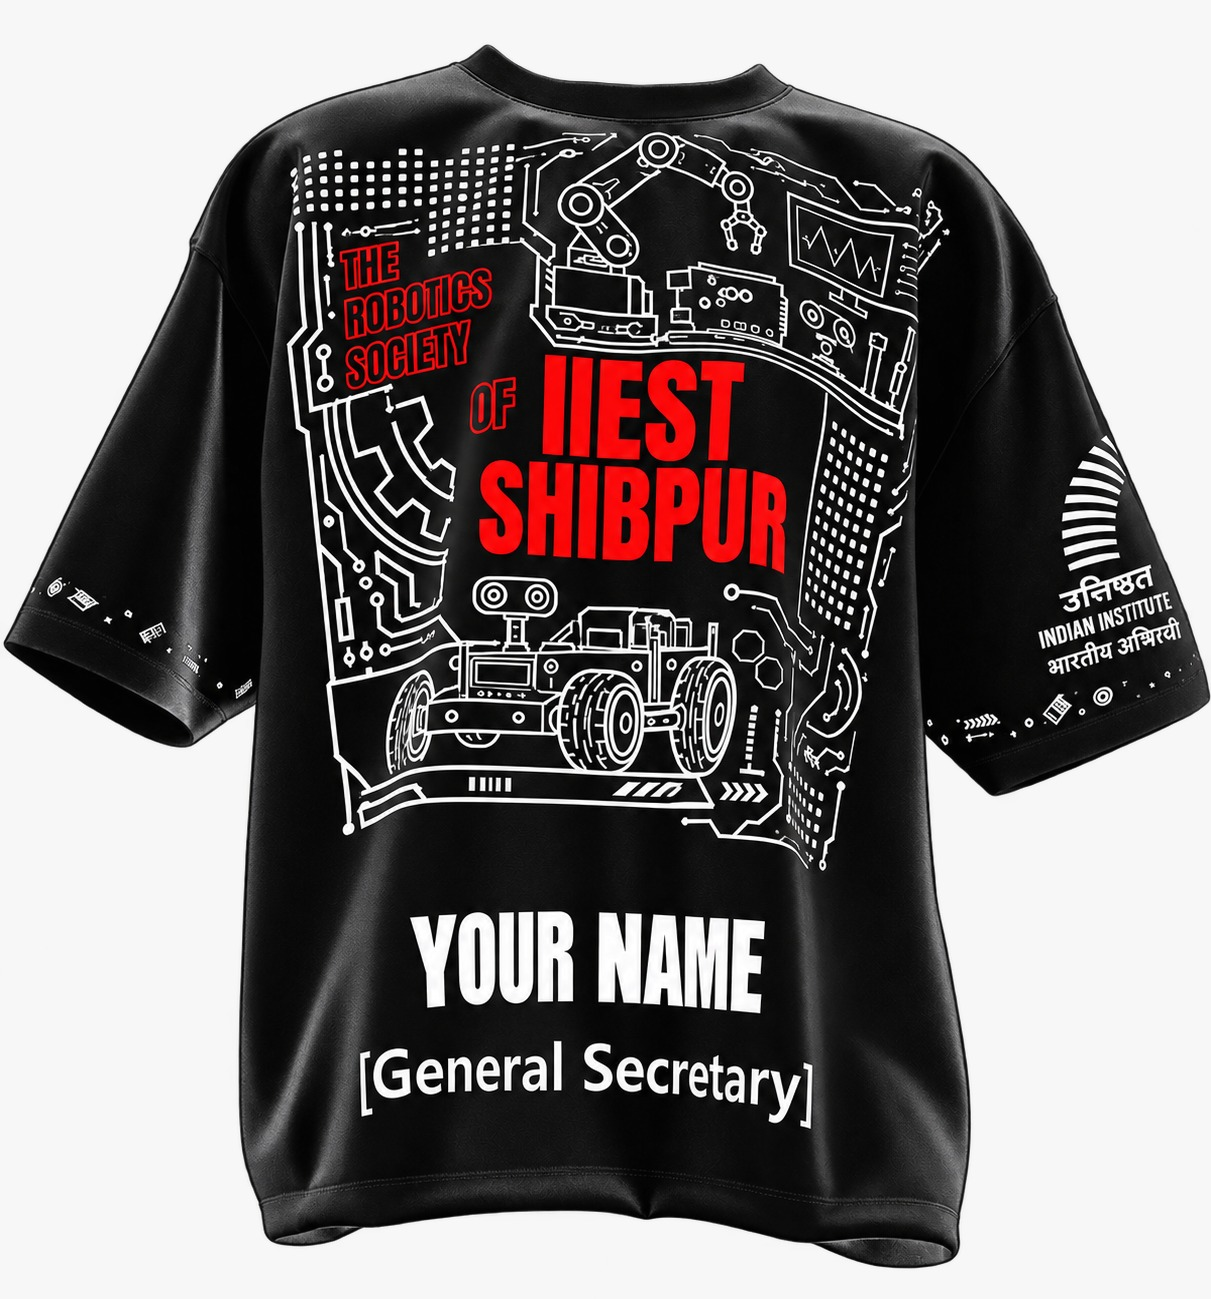
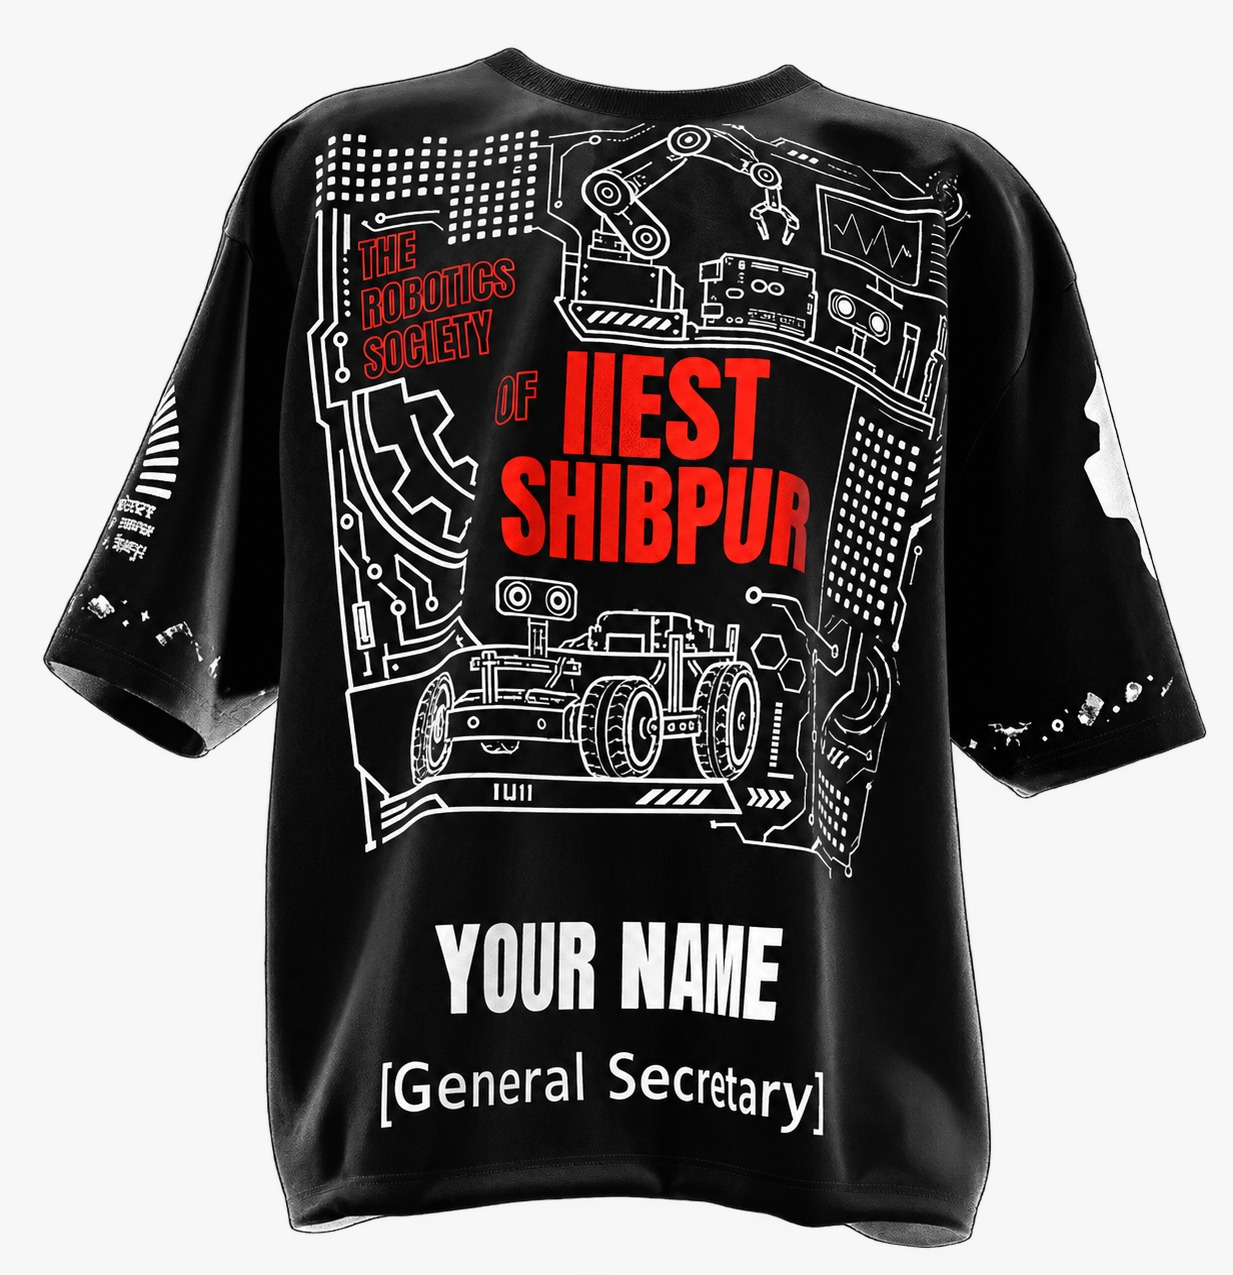
Tshirt_link Added

Changed region(s): [[0.0, 0.0306, 1.0, 0.9788], [0.6111, 0.8259, 0.8249, 0.9788]]

diff --git a/merch.html b/merch.html
@@ -96,10 +96,10 @@
                 <h1 data-w-id="18bcb97a-329f-b053-5521-faac954a35e0"
                     style="-webkit-transform:translate3d(0, 100px, 0) scale3d(1, 1, 1) rotateX(0) rotateY(0) rotateZ(0) skew(0, 0);-moz-transform:translate3d(0, 100px, 0) scale3d(1, 1, 1) rotateX(0) rotateY(0) rotateZ(0) skew(0, 0);-ms-transform:translate3d(0, 100px, 0) scale3d(1, 1, 1) rotateX(0) rotateY(0) rotateZ(0) skew(0, 0);transform:translate3d(0, 100px, 0) scale3d(1, 1, 1) rotateX(0) rotateY(0) rotateZ(0) skew(0, 0);opacity:0"
                     class="heading tab">Robodarshan Official T-Shirt 2026</h1>
-                <div>
-                    <div data-w-id="79ed10d3-ce57-4b82-e072-81d29bc439af"
-                        style="-webkit-transform:translate3d(0, 100px, 0) scale3d(1, 1, 1) rotateX(0) rotateY(0) rotateZ(0) skew(0, 0);-moz-transform:translate3d(0, 100px, 0) scale3d(1, 1, 1) rotateX(0) rotateY(0) rotateZ(0) skew(0, 0);-ms-transform:translate3d(0, 100px, 0) scale3d(1, 1, 1) rotateX(0) rotateY(0) rotateZ(0) skew(0, 0);transform:translate3d(0, 100px, 0) scale3d(1, 1, 1) rotateX(0) rotateY(0) rotateZ(0) skew(0, 0);opacity:0"
-                        class="techy-coming-soon">Coming Soon</div>
+                <div class="merch-offer">
+                    <p class="merch-launch-copy">T-shirt officially launched! Order now with our early bird offer.</p>
+                    <p class="merch-prices">WITH NAME: ₹379<br />WITHOUT NAME: ₹359</p>
+                    <a class="merch-order-button" href="https://docs.google.com/forms/d/e/1FAIpQLScuFqChUk_SVFkNcWS_kzhazhJhEGoetFPdqd--TDjFMnh96g/viewform?usp=publish-editor" target="_blank" rel="noopener noreferrer">ORDER NOW</a>
                 </div>
             </div>
         </div>

diff --git a/styles.css b/styles.css
@@ -2974,6 +2974,42 @@ textarea.w-input, textarea.w-select {
   display: flex;
 }
 
+.merch-offer {
+  text-align: center;
+  max-width: 560px;
+}
+
+.merch-launch-copy {
+  font-size: 1.25rem;
+  margin: 0 0 16px;
+}
+
+.merch-prices {
+  color: #a788fe;
+  font-size: clamp(1.6rem, 3vw, 2.5rem);
+  font-weight: 700;
+  line-height: 1.35;
+  margin: 0 0 24px;
+}
+
+.merch-order-button {
+  display: inline-block;
+  padding: 14px 28px;
+  border-radius: 6px;
+  background: #a788fe;
+  color: #fff;
+  font-size: 1.2rem;
+  font-weight: 700;
+  letter-spacing: 1px;
+  text-decoration: none;
+  transition: background-color .2s ease, transform .2s ease;
+}
+
+.merch-order-button:hover {
+  background: #8967e8;
+  transform: translateY(-2px);
+}
+
 .div-block-merch-image {
   width: 40%;
 }
